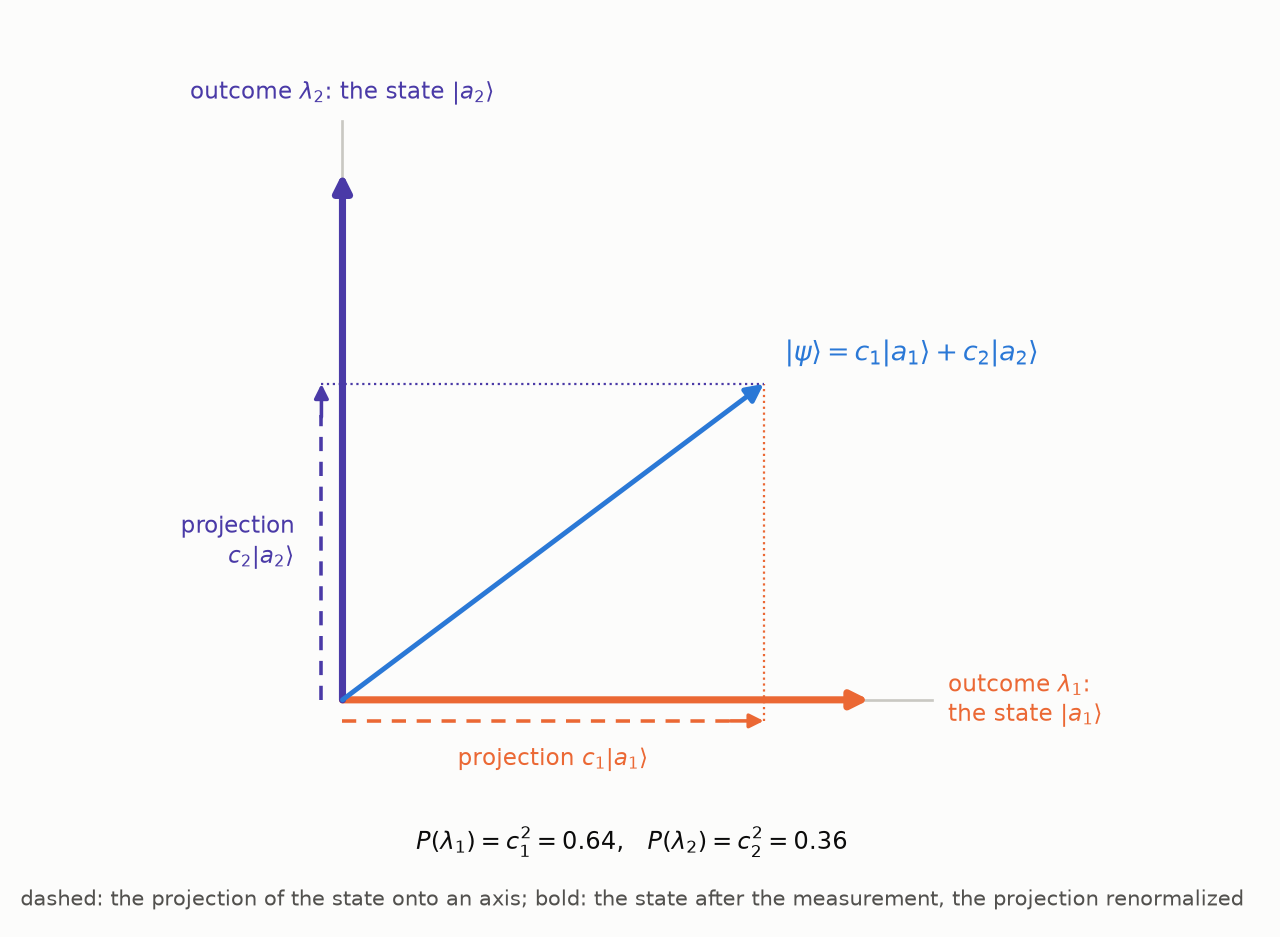
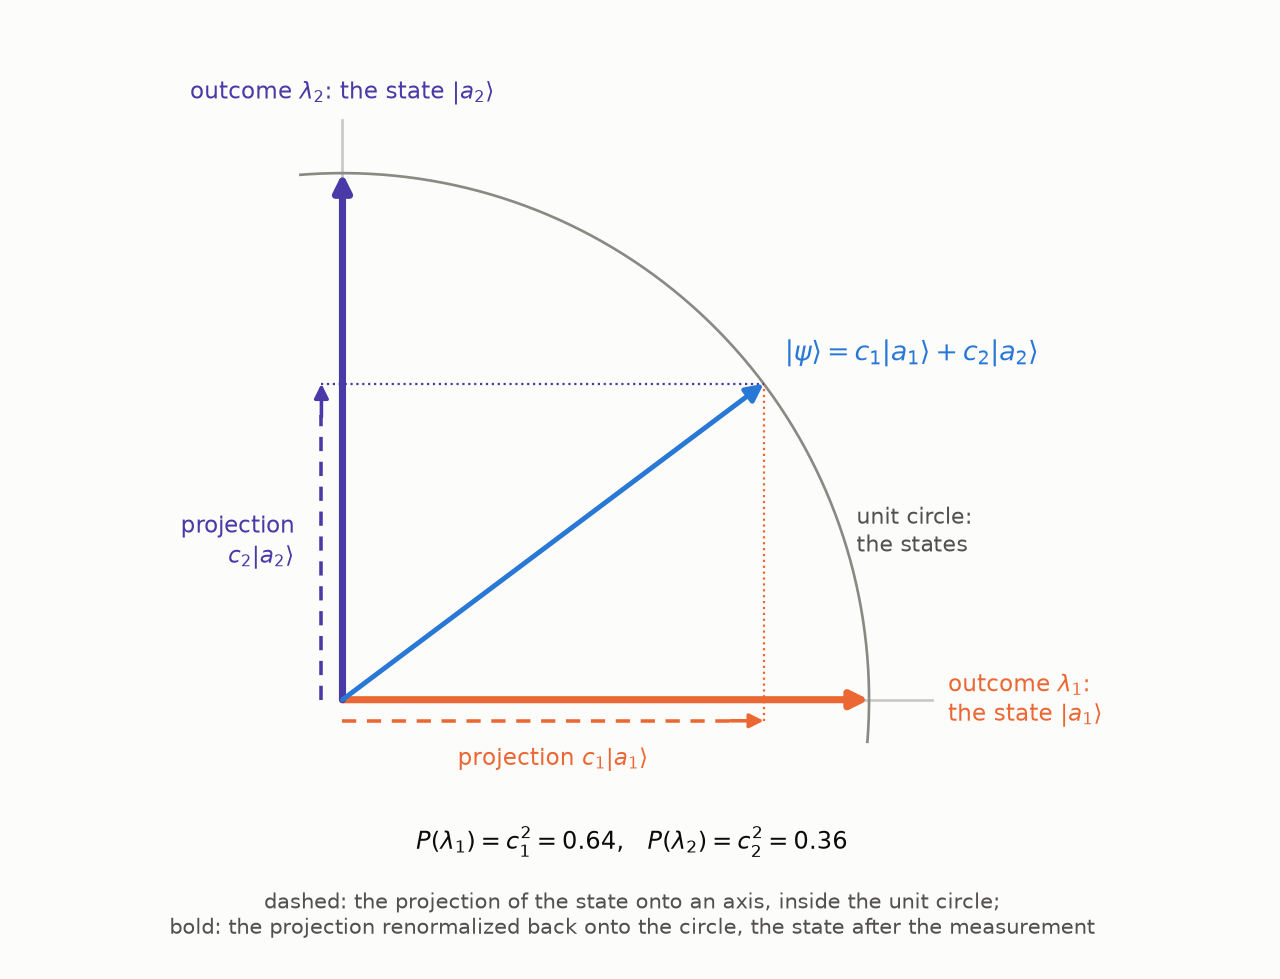
What a Measurement Does: the unit circle in measurement_projection shows why the projection is renormalized

diff --git a/content/quantum/what-a-measurement-does/index.md b/content/quantum/what-a-measurement-does/index.md
@@ -118,7 +118,7 @@ physical state, since a
 [global phase](/quantum/states-are-vectors/#global-phase) changes
 nothing measurable.
 
-![Measurement as projection: the projections of the state onto the axes, c1|a1⟩ and c2|a2⟩ (dashed), renormalized, give the unit vectors |a1⟩ and |a2⟩ (bold), the states after the outcomes λ1 and λ2; the probabilities are c1² = 0.64 and c2² = 0.36](measurement_projection.png)
+![Measurement as projection: the state |ψ⟩ lies on the unit circle; its projections onto the axes, c1|a1⟩ and c2|a2⟩ (dashed), lie inside it, and renormalized they return to the circle as the unit vectors |a1⟩ and |a2⟩ (bold), the states after the outcomes λ1 and λ2; the probabilities are c1² = 0.64 and c2² = 0.36](measurement_projection.png)
 
 ### The three experiments
 
